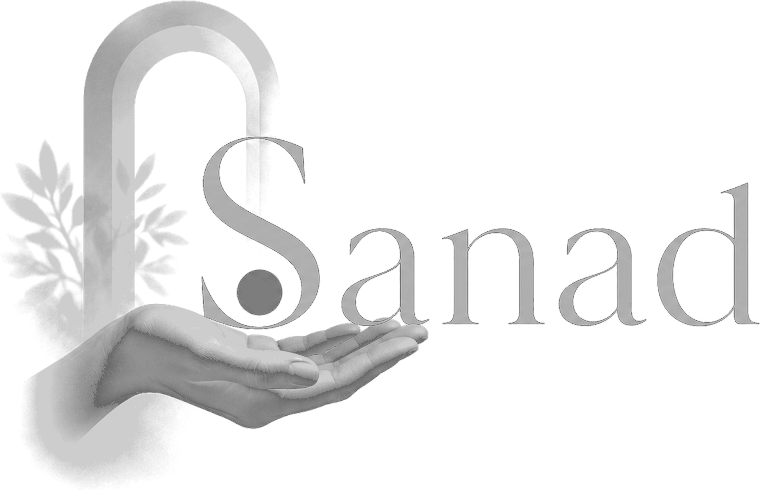
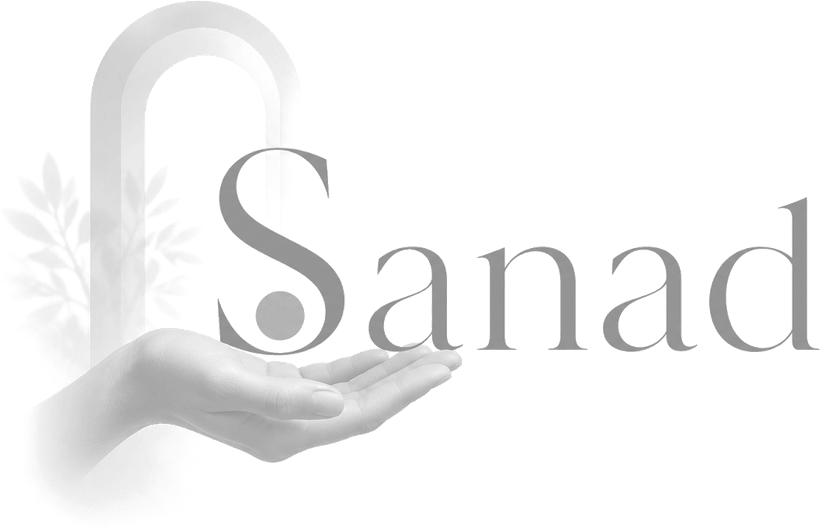
Smooth and enlarge the wordmark so it reads without the harsh cut
The light variant lifted shadows with a hard threshold at mid-grey, which
posterised the arch gradient into a visible seam and pushed the mark near
white. It now uses a smooth shadow-lift toward a grey floor: the lettering
rises to a readable grey, the arch and hand keep their continuous tone, and
nothing bands. Every placement goes up a size for presence.

Changed region(s): [[0.0, 0.0, 0.7868, 0.9796], [0.7566, 0.3673, 0.9987, 0.6735], [0.7263, 0.4898, 0.7566, 0.5204]]

diff --git a/resources/js/pages/home.tsx b/resources/js/pages/home.tsx
@@ -321,7 +321,7 @@ export default function Home({
                             <img
                                 src="/images/sanad-wordmark-light.png"
                                 alt="Sanad"
-                                className="hidden h-14 w-auto select-none sm:block md:hidden"
+                                className="hidden h-16 w-auto select-none sm:block md:hidden"
                                 draggable={false}
                             />
                             <div className="flex flex-1 items-center justify-end gap-2 md:gap-3">
@@ -1104,7 +1104,7 @@ export default function Home({
                     <div className="grid grid-cols-2 gap-10 pb-10 md:grid-cols-4">
                         {/* brand */}
                         <div className="col-span-2 md:col-span-1">
-                            <img src="/images/sanad-wordmark-light.png" alt="Sanad" className="h-20 w-auto select-none" draggable={false} />
+                            <img src="/images/sanad-wordmark-light.png" alt="Sanad" className="h-24 w-auto select-none" draggable={false} />
                             <p className="text-ashen-300 mt-3 max-w-xs text-sm leading-relaxed">
                                 A safe space for your mind — real, licensed psychological care, guided with warmth.
                             </p>

diff --git a/resources/js/components/app-logo.tsx b/resources/js/components/app-logo.tsx
@@ -4,7 +4,7 @@ export default function AppLogo() {
             {/* The Sanad wordmark — the S resting in an open hand. Dark artwork, so
             this is the variant for the cream sidebar; dark surfaces use the light one.
             It already carries the name, which is why there's no "Sanad" text beside it. */}
-            <img src="/images/sanad-wordmark-dark.png" alt="Sanad" className="h-14 w-auto shrink-0 select-none" draggable={false} />
+            <img src="/images/sanad-wordmark-dark.png" alt="Sanad" className="h-16 w-auto shrink-0 select-none" draggable={false} />
             <div className="grid flex-1 text-left">
                 <span className="text-sidebar-foreground/60 truncate text-[10px] tracking-[0.12em] uppercase">Psychological support</span>
             </div>
